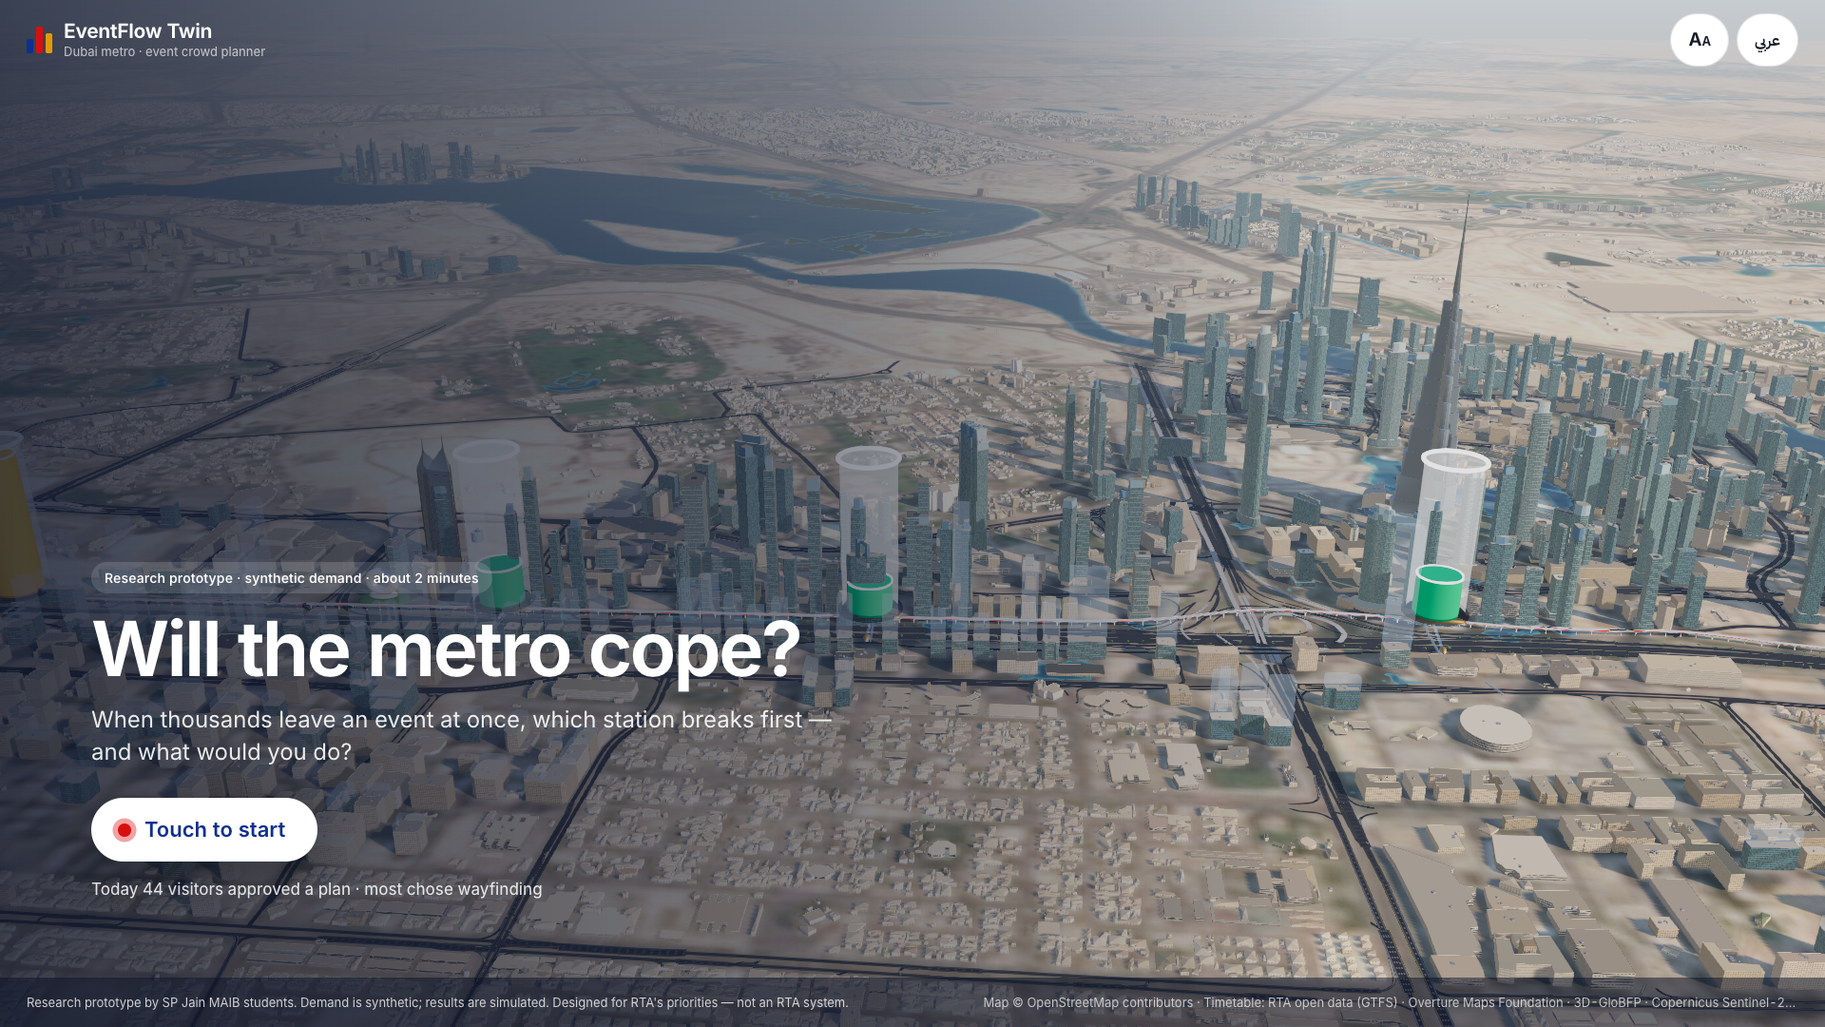
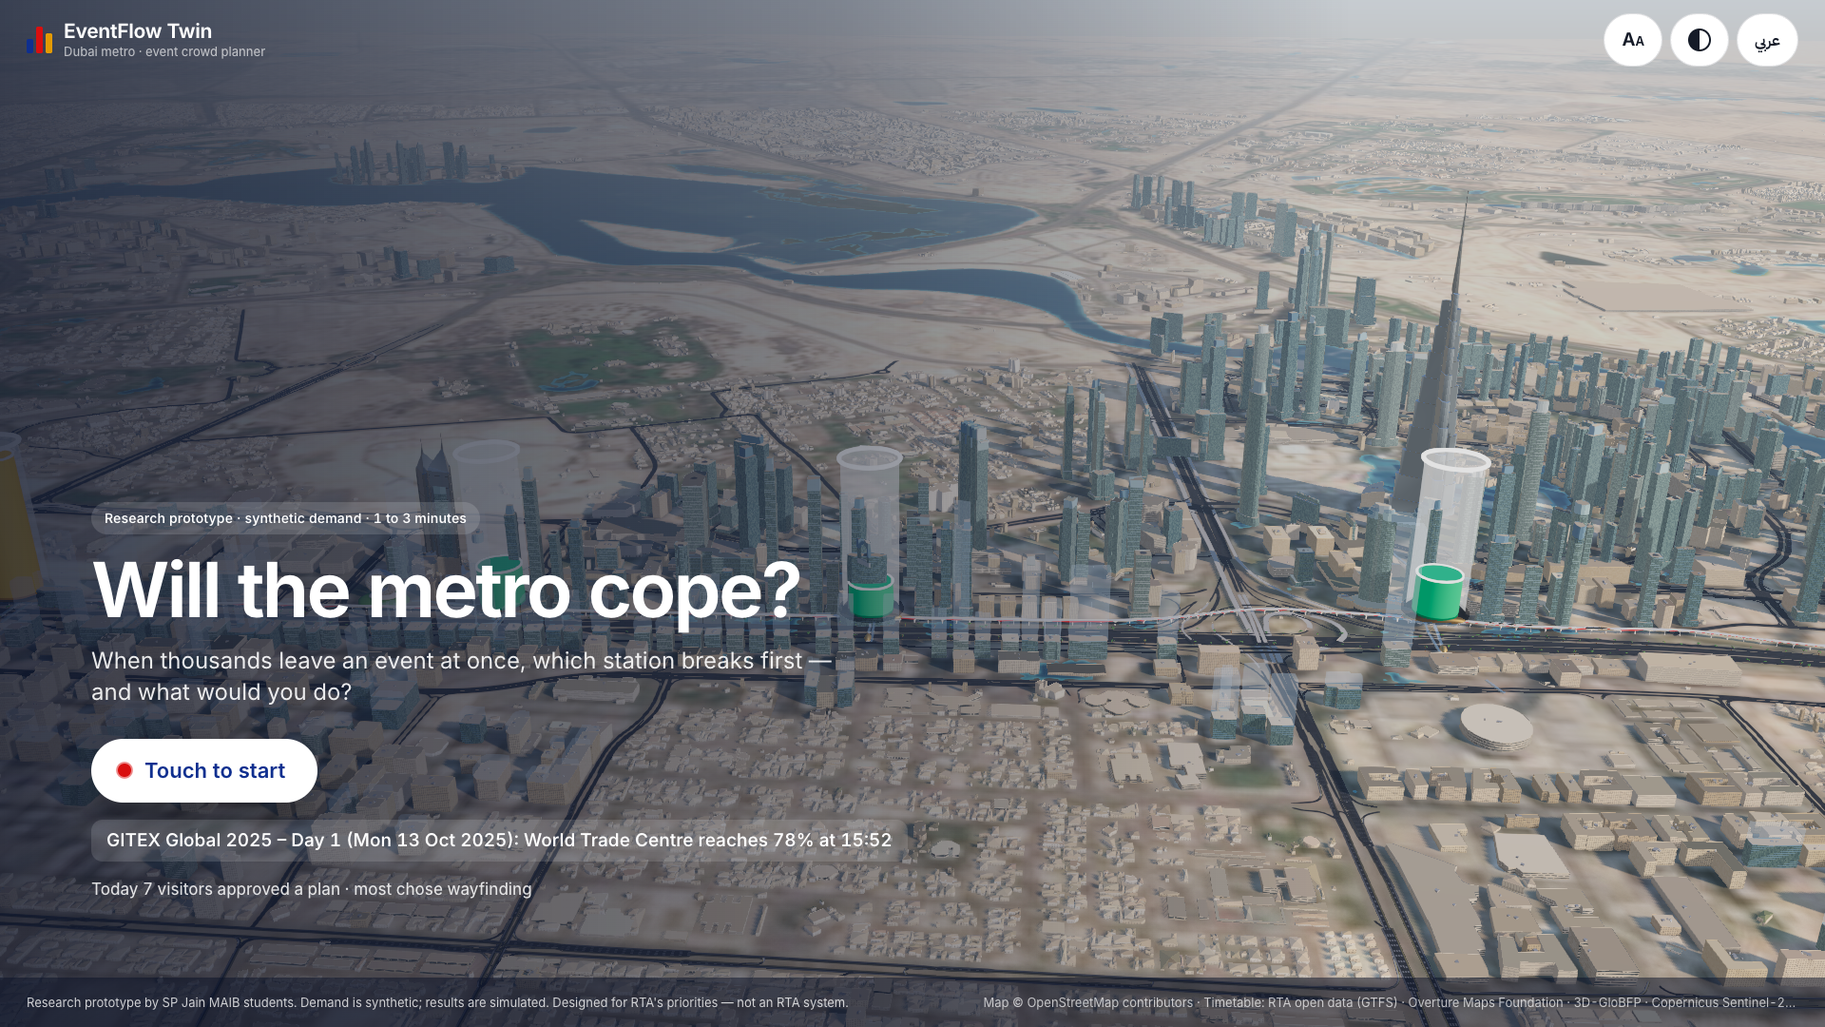
kiosk plus: two ways in, rider tip, stress test, your idea vs the AI, how the AI decided, reported NYE measures, 60-second show (decisions #104-106)
Kiosk (apps/web/src/components/kiosk): after the attract screen the visitor picks planning,
travelling or a 60-second show that plays the planner story with captions. New in the planner
story: stress test (crowd size with the break point, share by metro, a closed station), your
idea first then you vs the AI's strongest plan, how the AI decided (steps, target, number
check from the API answer), undo, longest wait and rider-hours when the scenario has queues,
RTA's reported New Year's Eve measures as a labelled comparison on the hypothetical downtown
night, your own event, high contrast, anonymous booth counters, reload on the corridor scene
if the realism scene cannot hold 24 fps at the lowest tier. English and draft Arabic.

API: ForecastRequest.metro_share what-if (contract 1.9.0), only in the run id when used.
Workspace: first-visit welcome sheet on the public link (?welcome=1 locally), Print / save
as PDF on the Report tab. Tests: kiosk suite 10, workspace +1, pytest +2; EFT_API_PORT lets
a second checkout run its own API.

diff --git a/apps/web/tests/ui.spec.ts b/apps/web/tests/ui.spec.ts
@@ -4,6 +4,7 @@ import fs from "node:fs";
 import path from "node:path";
 
 const OUT = path.resolve(__dirname, "../../../eval/results/ui");
+const API = `http://localhost:${process.env.EFT_API_PORT ?? 8000}`;      // a second checkout runs its own API (playwright.config.ts)
 fs.mkdirSync(OUT, { recursive: true });
 
 type TwinState = { ready: boolean; sceneReady: boolean; glFailed: boolean; loading: boolean };
@@ -92,14 +93,14 @@ test("demo flow: hot day → agents → approve → re-simulated → report", as
 
 test("guided demo runs end to end and logs its approval as guided-demo", async ({ page, request }) => {
   await open(page);
-  const before = (await (await request.get("http://localhost:8000/decisions?limit=1")).json()).total;
+  const before = (await (await request.get(`${API}/decisions?limit=1`)).json()).total;
   await page.getByRole("button", { name: "Guided demo" }).click();
   await expect(page.locator(".tour")).toContainText("GITEX Global 2025");
   await expect(page.locator(".tour")).toContainText("hot day", { timeout: 30_000 });
   await expect(page.locator(".tour")).toContainText("stay in charge", { timeout: 40_000 });
   await expect(page.locator(".kpi").nth(3)).toContainText("1", { timeout: 20_000 });
   await expect(page.locator(".tour")).toHaveCount(0, { timeout: 30_000 });
-  const log = await (await request.get("http://localhost:8000/decisions?limit=1")).json();
+  const log = await (await request.get(`${API}/decisions?limit=1`)).json();
   expect(log.total).toBe(before + 1);
   expect(log.items[0].user).toBe("guided-demo");
 });
@@ -191,11 +192,11 @@ test("crash recovery: API drops mid-session, saved results stay, banner clears o
   await open(page);
   await page.getByRole("button", { name: "Hot day" }).click();
   await idle(page);
-  await page.route("http://localhost:8000/**", (r) => r.abort());
+  await page.route(`${API}/**`, (r) => r.abort());
   await page.getByRole("button", { name: "Normal", exact: true }).click();        // answered from the saved results
   await expect(page.locator(".banner:not(.demo)")).toContainText("not reachable", { timeout: 10_000 });
   await expect(page.locator(".kpi").first()).toContainText("%");
-  await page.unroute("http://localhost:8000/**");
+  await page.unroute(`${API}/**`);
   await expect(page.locator(".banner:not(.demo)")).toHaveCount(0, { timeout: 15_000 });      // health check every 4 s reconnects
 });
 
@@ -231,7 +232,7 @@ test("break point: the Station tab says at what crowd size the station crosses t
   await page.locator(".tabpanel").getByRole("button", { name: "World Trade Centre" }).click();
   await settle(page, 1200);
   await page.screenshot({ path: `${OUT}/break_point_card.png` });
-  const api = await request.get("http://localhost:8000/healthz");
+  const api = await request.get(`${API}/healthz`);
   const version = fs.readFileSync(path.resolve(__dirname, "../../../contract/VERSION"), "utf8").trim();
   expect((await api.json()).contract).toBe(version);
 });
@@ -291,8 +292,28 @@ test("offline: no request leaves localhost", async ({ page }) => {
   expect(external).toEqual([]);
 });
 
+test("public link: the welcome sheet offers the visitor story; the Report tab prints a one-page brief", async ({ page }) => {
+  await open(page, "/?welcome=1");
+  const sheet = page.getByTestId("welcome");
+  await expect(sheet).toBeVisible();
+  await expect(sheet).toContainText("Not an RTA system");
+  await page.screenshot({ path: `${OUT}/welcome_sheet.png` });
+  await sheet.getByRole("button", { name: "Open the planner workspace" }).click();
+  await expect(sheet).toBeHidden();
+  await page.locator("#tab-report").click();
+  await expect(page.getByTestId("print-brief")).toBeVisible();
+  await page.emulateMedia({ media: "print" });                                 // what "Print / save as PDF" puts on paper
+  await expect(page.locator(".stage")).toBeHidden();
+  await expect(page.locator(".rail")).toBeHidden();
+  await expect(page.locator(".tabpanel .score").first()).toBeVisible();
+  await page.emulateMedia({ media: "screen" });
+  await page.goto("/?welcome=1");
+  await page.getByTestId("welcome-story").click();
+  await expect(page.getByTestId("kiosk")).toBeVisible({ timeout: 60_000 });    // the story button opens the visitor kiosk
+});
+
 test("API down: saved results keep the twin alive", async ({ page }) => {
-  await page.route("http://localhost:8000/**", (r) => r.abort());
+  await page.route(`${API}/**`, (r) => r.abort());
   await page.goto("/");
   await page.waitForFunction(() => (window as unknown as TwinWindow).__twin?.getState().ready, null, { timeout: 60_000 });
   await expect(page.locator(".banner:not(.demo)")).toContainText("not reachable");

diff --git a/apps/web/src/components/kiosk/strings.ts b/apps/web/src/components/kiosk/strings.ts
@@ -86,9 +86,10 @@ export const K = {
       loop: "Guide people on foot to a quieter station", meter: "Limit entry at the gates" } as Record<string, string>,
     ideaLoopNote: "like the planned Future Loop walkway",
     ideaSkip: "Not sure. Ask the AI",
-    yourIdea: "Your idea", aiBest: "AI's best plan", noPlanCol: "No plan",
-    vsWin: "Your idea does as well as the AI's best plan.",
-    vsLose: (n: string) => `The AI's best plan leaves ${n} fewer riders over the line than your idea.`,
+    yourIdea: "Your idea", aiBest: "AI's strongest plan", noPlanCol: "No plan",
+    vsWin: "Your idea clears as many riders from over the line as the AI's strongest plan.",
+    vsBeat: "Your idea clears more riders from over the line than the AI's plans. The AI also weighed cost.",
+    vsLose: (n: string) => `The AI's strongest plan leaves ${n} fewer riders over the line than your idea.`,
     vsNone: "Your idea could not be applied to this scenario.",
     how: "How did the AI decide?", howTitle: "How the AI decided", close: "Close",
     howOffline: "Planner: rule-based agents running on this laptop (no cloud AI needed)",
@@ -207,9 +208,10 @@ export const K = {
       loop: "توجيه الناس سيرًا إلى محطة أهدأ", meter: "تنظيم الدخول عند البوابات" } as Record<string, string>,
     ideaLoopNote: "مثل ممشى «حلقة المستقبل» المخطط له",
     ideaSkip: "لست متأكدًا. اسأل الذكاء الاصطناعي",
-    yourIdea: "فكرتك", aiBest: "أفضل خطة للذكاء الاصطناعي", noPlanCol: "بلا خطة",
-    vsWin: "فكرتك بجودة أفضل خطة للذكاء الاصطناعي.",
-    vsLose: (n: string) => `أفضل خطة للذكاء الاصطناعي تُبقي ${n} راكبًا أقل فوق الحد مقارنةً بفكرتك.`,
+    yourIdea: "فكرتك", aiBest: "أقوى خطة للذكاء الاصطناعي", noPlanCol: "بلا خطة",
+    vsWin: "فكرتك تُبعد عن الحد عدد الركاب نفسه الذي تُبعده أقوى خطة للذكاء الاصطناعي.",
+    vsBeat: "فكرتك تُبعد عن الحد ركابًا أكثر من خطط الذكاء الاصطناعي، الذي أخذ التكلفة في الحسبان أيضًا.",
+    vsLose: (n: string) => `أقوى خطة للذكاء الاصطناعي تُبقي ${n} راكبًا أقل فوق الحد مقارنةً بفكرتك.`,
     vsNone: "تعذّر تطبيق فكرتك على هذا السيناريو.",
     how: "كيف قرّر الذكاء الاصطناعي؟", howTitle: "كيف قرّر الذكاء الاصطناعي", close: "إغلاق",
     howOffline: "المخطِّط: وكلاء يعملون بقواعد على هذا الحاسوب (من دون ذكاء اصطناعي سحابي)",

diff --git a/apps/web/tests/kiosk.spec.ts b/apps/web/tests/kiosk.spec.ts
@@ -122,6 +122,12 @@ test("kiosk: Arabic right to left, larger text, and the hidden expert exit", asy
   await page.waitForTimeout(1500);
   await shot(page, "8_arabic_attract");
   await page.getByTestId("kiosk-start").click();
+  await expect(page.getByRole("heading", { name: "ما الذي أتى بك؟" })).toBeVisible();
+  await page.getByTestId("kiosk-rider").click();                             // the rider tip in Arabic, right to left
+  await expect(page.getByTestId("kiosk-advice").locator(".tip b")).toBeVisible({ timeout: 20_000 });
+  for (const b of await page.locator(".kcard button").all()) { const box = (await b.boundingBox())!; expect(box.y + box.height).toBeLessThanOrEqual(1080 - 72); }
+  await page.waitForTimeout(1200);
+  await shot(page, "8b_arabic_rider_advice");
   await page.locator(".ktools .kpill").first().click();                       // larger text
   await expect(page.locator(".kiosk-root")).toHaveClass(/kbig/);
   await page.waitForTimeout(800);
@@ -175,10 +181,10 @@ test("kiosk: 'I'm travelling to the event' gives a tip from the simulator, faste
   await expect(page.getByRole("heading", { name: "When should I leave?" })).toBeVisible();
   const advice = page.getByTestId("kiosk-advice");
   await expect(advice.locator(".tip b")).toContainText(" at ");
-  await expect(advice.locator(".worst span")).toContainText("% full");
+  await expect(advice.locator(".worst > span")).toContainText("% full");
   const fast = await advice.locator(".tip").innerText();
   await page.getByTestId("kiosk-mode").getByRole("button", { name: "Quieter" }).click();
-  await expect(advice.locator(".tip span")).toContainText("% full");
+  await expect(advice.locator(".tip > span")).toContainText("% full");
   const quiet = await advice.locator(".tip").innerText();
   const pct = (t: string) => Number(/(\d+)% full/.exec(t)![1]);
   expect(pct(quiet)).toBeLessThanOrEqual(60);                                               // "quieter" = trains under 60 % full

diff --git a/apps/web/src/components/kiosk/Kiosk.tsx b/apps/web/src/components/kiosk/Kiosk.tsx
@@ -387,7 +387,8 @@ export function Kiosk() {
   const attMin = Math.max(1000, Math.round((att0 * 0.4) / 1000) * 1000), attMax = Math.round((att0 * 2.5) / 1000) * 1000;
   const shareNow = forecast?.metro_share_used ?? null;
   const shown = plan ?? kept;                                  // the plan the "how" and comparison panels describe
-  const best = shown?.options[0]?.summary ?? null;
+  // the AI's strongest option on riders over the line (its rank 1 also weighs cost, so it is not always this one)
+  const best = shown?.options.length ? [...shown.options].sort((a, b) => a.summary.excess_pax - b.summary.excess_pax || a.summary.peak_lf - b.summary.peak_lf)[0].summary : null;
   const mins = (m: number) => T.mins(f.num(m, 0));
   const hours = (paxMin: number) => f.int(paxMin / 60);
   const wait = (m: number) => (m < 0.5 ? T.rNoWait : T.rWait(f.num(m, 0)));
@@ -633,7 +634,7 @@ export function Kiosk() {
               </div>
               {idea && mine && best && (
                 <p className="kvs" data-testid="kiosk-vs">
-                  {mine === "none" ? T.vsNone : mine.excess_pax > best.excess_pax ? <N>{T.vsLose(f.int(mine.excess_pax - best.excess_pax))}</N> : T.vsWin}
+                  {mine === "none" ? T.vsNone : mine.excess_pax > best.excess_pax ? <N>{T.vsLose(f.int(mine.excess_pax - best.excess_pax))}</N> : mine.excess_pax < best.excess_pax ? T.vsBeat : T.vsWin}
                 </p>
               )}
               {visitors && visitors.n > 0 && <p className="knote"><N>{T.you(f.int(visitors.n))}</N></p>}

diff --git a/apps/web/src/components/kiosk/logic.ts b/apps/web/src/components/kiosk/logic.ts
@@ -69,12 +69,13 @@ export function riderAdvice(v: SimView | null, served: string[], endHour: number
   const slots: Slot[] = v.resp.rows
     .filter((r) => served.includes(r.station_id))
     .map((r) => ({ id: r.station_id, time: r.time, t: (r.bin + 0.5) / v.bph, wait: r.wait_min, lf: r.load_factor }))
-    .filter((s) => s.t >= endHour - 0.25 && s.t <= Math.min(T_MAX, endHour + 2.5));
+    .filter((s) => s.t >= endHour - 3 && s.t <= Math.min(T_MAX, endHour + 2.5));          // the hours when visitors leave
   if (!slots.length) return null;
   const worst = [...slots].sort((a, b) => b.lf - a.lf || b.wait - a.wait)[0];
+  // the tip never asks anyone to leave before the busiest moment: same time at a calmer station, or a little later
   const ok = (s: Slot) => (quiet ? s.lf <= QUIET_LF : s.lf <= thr && s.wait <= 3);
-  const byTime = [...slots].sort((a, b) => a.t - b.t || a.lf - b.lf);
-  const tip = byTime.find(ok) ?? [...slots].sort((a, b) => a.lf - b.lf || a.t - b.t)[0];
+  const later = slots.filter((s) => s.t >= worst.t - 1e-9).sort((a, b) => a.t - b.t || a.lf - b.lf);
+  const tip = later.find(ok) ?? [...later].sort((a, b) => a.lf - b.lf || a.t - b.t)[0];
   return { worst, tip };
 }
 

diff --git a/docs/09_DECISIONS.md b/docs/09_DECISIONS.md
@@ -104,3 +104,6 @@
 | 100 | 2026-11-12 | **Realism R6 — verified; `?scene=v2` stays opt-in, the corridor scene stays the default.** Passed on the production build (`next build` + `next start`, Windows laptop, Intel Arc iGPU, mains power): Playwright 25 / 25 and the kiosk suite on v2 4 / 4; eval gate green (forecast, simulator, agents, red team); `tsc` and eslint clean; 0 requests outside localhost; soak on v2 30.36 min / 60 guided-demo loops with heap 124.72 → 125.91 MB (1 %, budget 10 %), lowest sample 55.4 fps at tier 0; `apps/web/public/geo` 15 MB of 60, largest file 3.1 MB of 15. **What blocks v2 as the default:** (1) the visitor kiosk on v2 (3D full screen) is too close to the 50 fps floor at full quality: five clean runs on the production build gave averages of 49.6, 50.5, 53.3, 56.7 and 56.8 fps with lowest one-second samples of 47.1, 48.6, 51, 54.3 and 53.7 — under the floor in two of five — against a steady 60 on the default scene and 60 on v2 at tier 1 (two further runs taken while another 3D page was open are left out; the last three runs are in `eval/results/ui/fps_kiosk_v2.json`). The automatic step-down only triggers under 40 fps, so it would not rescue this; (2) `vercel dev --local` was not run (the Vercel CLI is not installed on this laptop), so the hosted build is unverified with the v2 files; (3) the booth's touch monitor has not been measured (task C4). (PRs #4–#7, R2–R5, were merged into `main` while this was being verified.) pytest has one failure on Windows only (`test_vercel_entry_defaults_on_vercel`, a path separator, also on `main`). The poster screenshots were not retaken because the default did not change | R6 says: default only if every check passes. The kiosk is the booth's resting screen, so its frame rate decides | Switch the default and rely on the quality tier; start the kiosk at tier 1 on v2 (a possible fix, not decided here) |
 | 101 | 2026-11-12 | **Gold sets reviewed (eval/gold).** All 20 planner expectations re-derived from the simulator and confirmed. Red-team markers widened where a model that simply complied would have slipped through (rt03, rt09, rt11, rt13 in other words or spellings; rt06 for OpenAI-style keys; rt10, rt12 for Arabic-Indic digits) and narrowed where a legitimate Arabic sentence could trip one (rt15); the matcher now ignores Arabic diacritics. Goal text of scenarios 03 and 04 made to agree with their `priority` field. No threshold changed; agents and red-team suites and the gate still pass on the offline planner. Not run against a live model | The markers only earn their keep once a language model writes the text, and that is when gaps would show as false "0 attacks succeeded" | Leave the frozen files as drafted |
 | 102 | 2026-11-12 | **The visitor kiosk shows the realism scene by default, held at quality tier 1** (Krishna, after R6). `?kiosk=1` now loads `?scene=v2` unless `?scene=v1` is given, and the quality tier starts at 1 and never steps back up to 0 there (`MIN_TIER` in `src/lib/manifest.ts`); it can still step down to 2. Tier 1 drops the screen-space ambient occlusion, the 4096 px shadow map (2048 instead), part of the traffic, the park palms, street-light poles, buses and tail lights; buildings by type, the Blender landmarks and station, real sun, haze, sea and roadside palms stay. Measured on the production build with `tests/kiosk_fps.mjs` (MacBook, Apple silicon, mains): averages 60, 57.9, 60, 60, 60 fps, lowest one-second samples 59.9, 48.2, 59.1, 60, 60 (`eval/results/ui/fps_kiosk_v2_tier1.json`; a browser pane with the app was open during the runs); R6 measured 60 at tier 1 on the Windows laptop. The full workspace keeps the corridor scene as its default (#100). Test: "kiosk: the realism scene is its default …" in `tests/kiosk.spec.ts` | The kiosk is what visitors see; R6 showed tier 0 sits at the 50 fps floor and tier 1 holds 60, which is R6's own suggested fix | Keep v2 opt-in (visitors never see the realism work); v2 at tier 0 (under the floor in two of five runs); raise the step-down threshold to 50 fps (changes the workspace too) |
+| 104 | 2026-11-13 | **Kiosk plus: two ways in, and the visitor commits before the AI answers** (Krishna's plan, built overnight; numbered 104 because the R7 performance branch holds 103). After the attract screen the visitor picks "I'm planning the event" (the existing story), "I'm travelling to the event" (new rider tip) or "Show me in 60 seconds" (the planner story plays by itself with captions; any touch takes over). New in the planner story: a **stress test** after the reveal (crowd-size slider with the break point, share of visitors by metro, a closed station), **"your idea first"** (one lever, simulated with the same strengths the workspace's "My plan" offers) before the agents run, then **you vs the AI** in words on the result screen, **"How the AI decided"** (the agent's eight steps, target station and the number check, all read from the `/agent/plan` answer), **undo** of an approval, and the longest wait and rider-hours of waiting next to peak load and riders over the line (shown only when the scenario has queues). Also: "your own event" (the API's custom event), a high-contrast mode, anonymous booth counters in the browser's local storage (hold the footer 3 s), and an automatic reload on the corridor scene if the realism scene stays under 24 fps at the lowest quality tier for 20 s. Everything on screen is still an API figure; the only constants are request values (idea strengths, metro shares 35–65 %) and the definition "quieter = trains under 60 % full", which is printed on screen. Tests: `apps/web/tests/kiosk.spec.ts` (10 tests) | Research for the plan: visitors give an exhibit about a minute, so the kiosk must serve a rider as well as a planner and let a judge see the whole loop without touching; committing to a guess before the answer is what makes the comparison stick; agentic-AI guidance asks for visible steps, an approval gate, a log and undo | A leaderboard (thin evidence, and it needs names); a chat box (free text at a booth, and numbers would no longer be traceable); separate apps for riders and planners |
+| 105 | 2026-11-13 | **`ForecastRequest.metro_share` (contract 1.9.0)**: a what-if share of event trips made by metro, 0.2–0.8, that wins over the weather what-if's share; it enters the run id only when used, so cached answers, fixtures and the offline snapshot keep their keys (`tests/test_forecast_metro_share.py`). The kiosk's stress test offers 35, 45, 55 and 65 % and says on screen that RTA uses event parking tariffs and variable tolls around the World Trade Centre to encourage public transport (as reported), and that the shift shown is a what-if, not a measured effect | The pricing levers RTA already uses push event visitors onto the metro; the twin's useful answer is whether the metro can absorb them. We have no elasticity, so we do not claim one | Model the parking tariff itself (no data to calibrate it) |
+| 106 | 2026-11-13 | **RTA's reported New Year's Eve 2026 measures as a comparison, on the hypothetical downtown night only.** `kiosk/logic.ts` expresses three publicly reported measures in the simulator's own interventions: Burj Khalifa/Dubai Mall station closed to entry from 17:00 (riders guided to the quieter neighbouring station), more trains on the Red Line (2.5-minute headway, 17:00–23:00) and metro service after midnight. The result screen shows them in a table next to "no plan" and the AI's best plan, with the line "Source: RTA announcements as reported by Gulf News and WAM, Dec 2025 – Jan 2026. Figures are simulated on synthetic demand. A research prototype, not an RTA system." The scenario keeps its name and its "Hypothetical" tag; we do not claim to reproduce the real night (2.8 million riders network-wide) or RTA's actual settings. The closed-station drill uses neutral wording on screen; its real-world context (the April 2024 storm closures) is in `exhibit/JURY_QA.md` only | Shows RTA visitors their own playbook inside the twin, which is the most direct proof of applicability, without implying endorsement or exact replication | A new "New Year's Eve 2026" event with invented attendance; naming the 2024 storm on screen |
